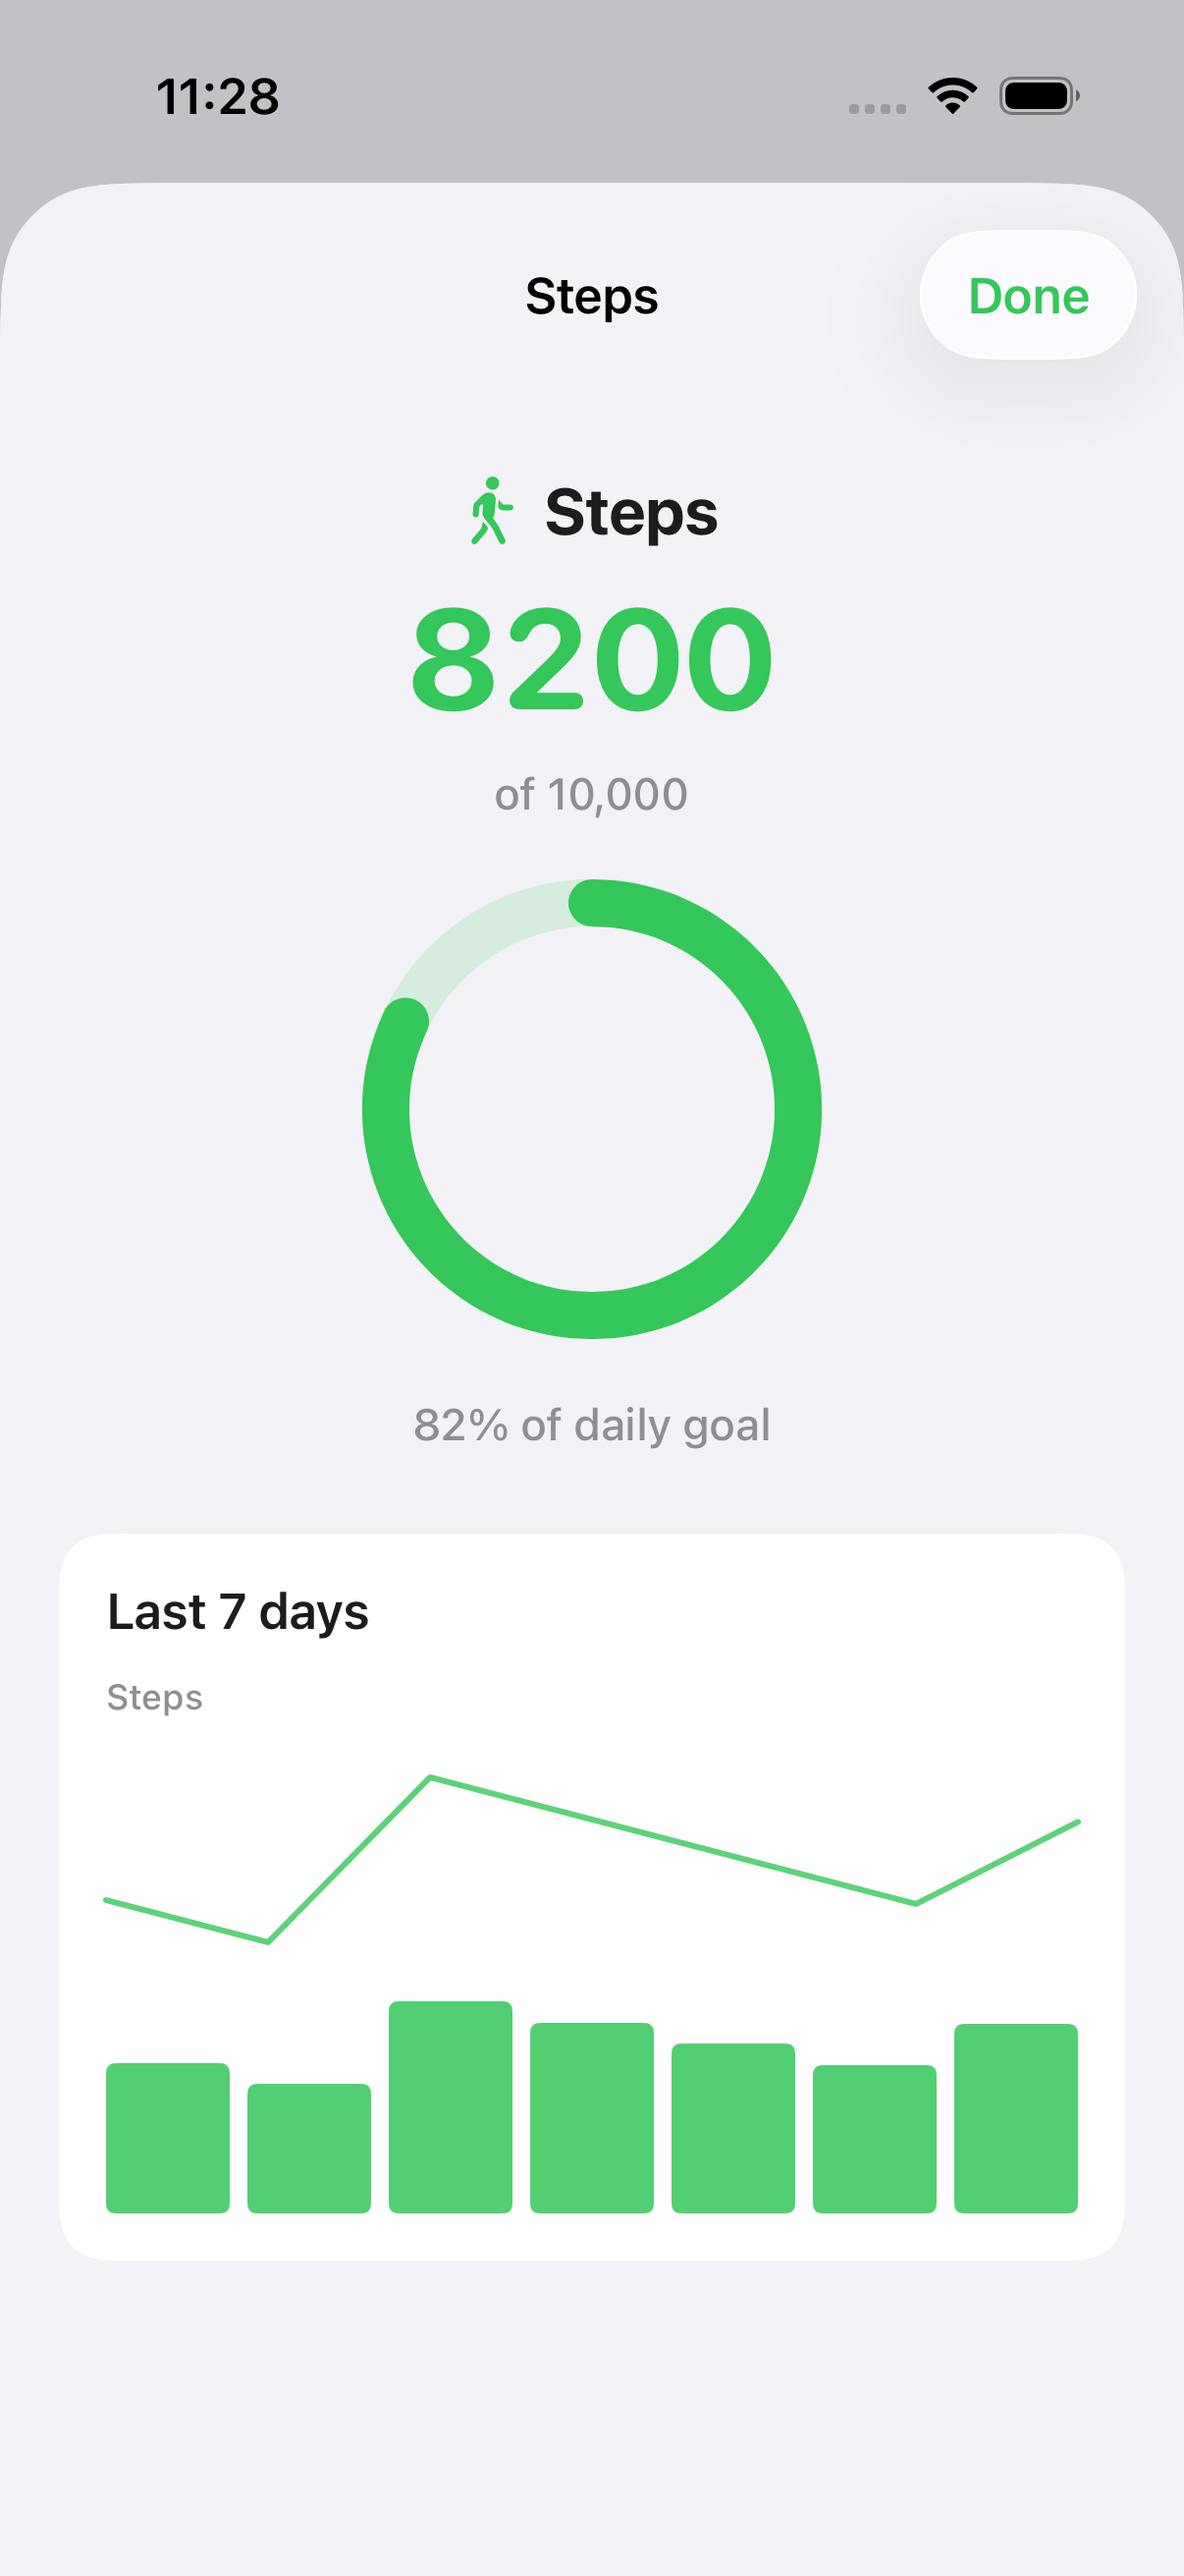
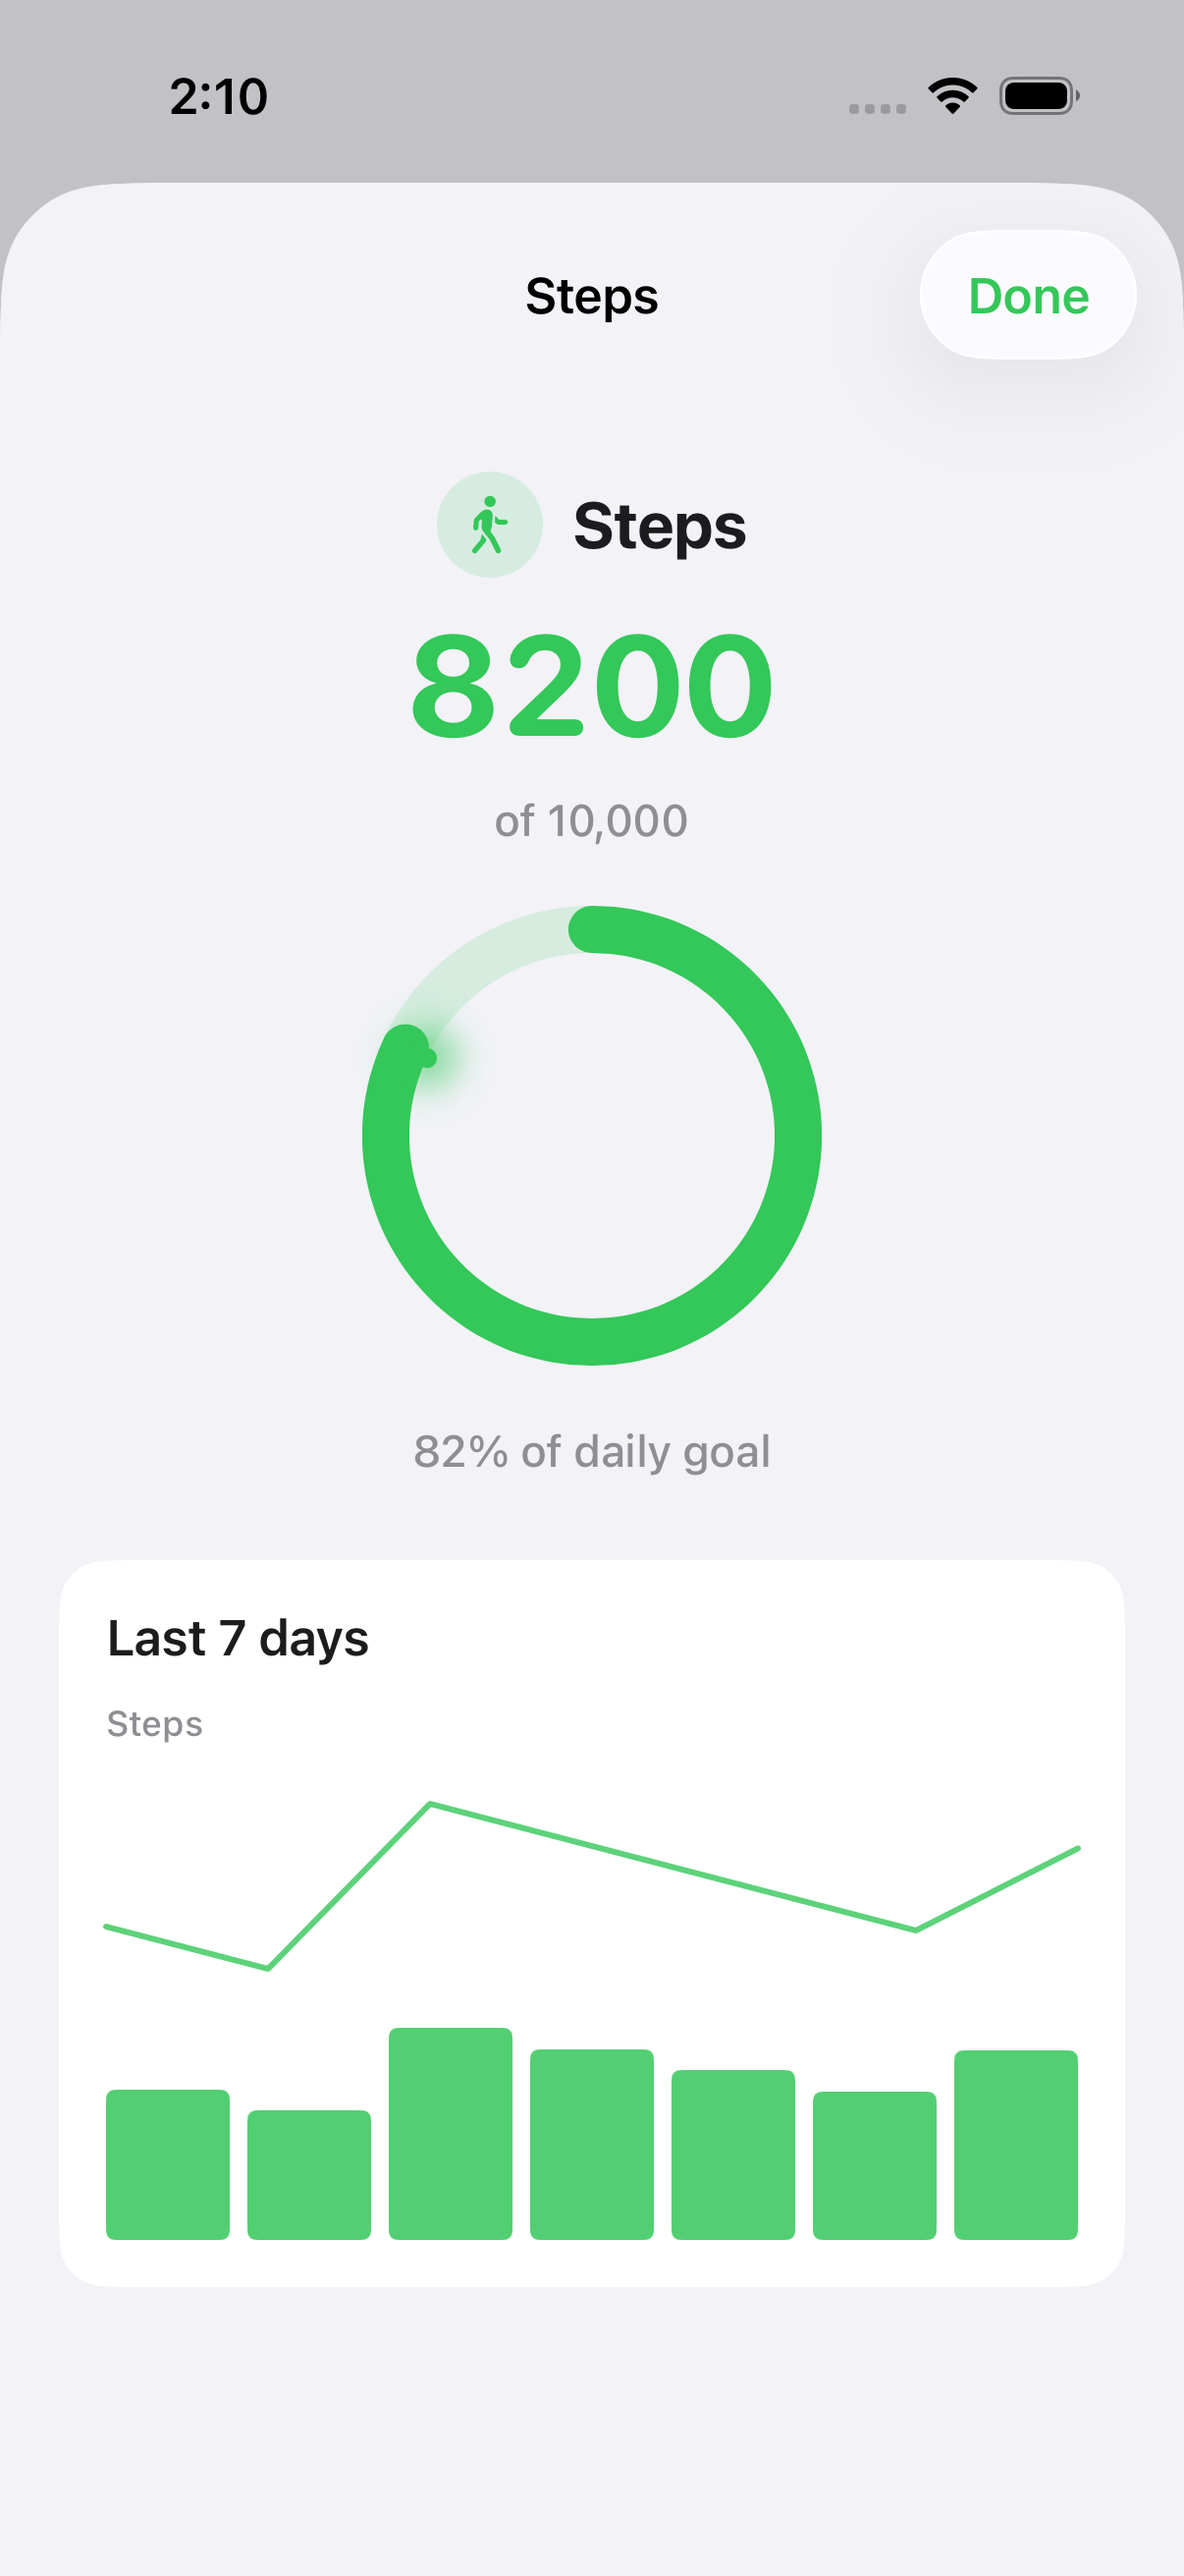
feat(today): Apple Body section chrome (Honest #63) (#81)
Rename Body & activity → Body, add circular tint wells on metric tiles
and detail hero, refresh audit PNGs from Mac-mini UITests.

diff --git a/ReadinessTracker/Views/DashboardView.swift b/ReadinessTracker/Views/DashboardView.swift
@@ -997,7 +997,7 @@ struct DashboardView: View {
         let kinds: [BodyMetricKind] = [.steps, .activity, .calories, .spo2, .water, .caffeine, .protein]
         return NativeCard {
             VStack(alignment: .leading, spacing: 14) {
-                SectionHeader(title: "Body & activity")
+                SectionHeader(title: "Body")
 
                 LazyVGrid(columns: [GridItem(.flexible()), GridItem(.flexible())], spacing: 12) {
                     ForEach(kinds) { kind in
@@ -1008,12 +1008,15 @@ struct DashboardView: View {
                     if UserSettings.load().trackMenstrualCycle {
                         // Cycle remains informational (no dedicated metric kind / detail yet).
                         VStack(alignment: .leading, spacing: 4) {
-                            HStack(spacing: 6) {
+                            HStack(spacing: 8) {
                                 Image(systemName: "circle.lefthalf.filled")
-                                    .font(.system(size: 12, weight: .semibold))
+                                    .font(.system(size: 11, weight: .semibold))
                                     .foregroundStyle(RTColor.secondaryText)
+                                    .frame(width: 26, height: 26)
+                                    .background(RTColor.secondaryText.opacity(0.12))
+                                    .clipShape(Circle())
                                 Text("Cycle")
-                                    .font(.caption)
+                                    .font(.caption.weight(.semibold))
                                     .foregroundStyle(RTColor.secondaryText)
                             }
                             Text(data.menstrualFlow ? "Flow reported" : "No flow")
@@ -1032,7 +1035,7 @@ struct DashboardView: View {
             }
         }
         .accessibilityElement(children: .contain)
-        .accessibilityLabel("Body and activity")
+        .accessibilityLabel("Body")
         .accessibilityIdentifier(SurfaceID.bodyActivitySection)
         .sheet(item: $selectedBodyMetric) { kind in
             BodyMetricDetailView(kind: kind, data: data, history: history)

diff --git a/ReadinessTracker/Design/Components.swift b/ReadinessTracker/Design/Components.swift
@@ -471,10 +471,13 @@ struct BodyMetricTile: View {
 
     var body: some View {
         VStack(alignment: .leading, spacing: 8) {
-            HStack(spacing: 6) {
+            HStack(spacing: 8) {
                 Image(systemName: kind.icon)
-                    .font(.system(size: 12, weight: .semibold))
+                    .font(.system(size: 11, weight: .semibold))
                     .foregroundStyle(kind.color)
+                    .frame(width: 26, height: 26)
+                    .background(kind.color.opacity(0.14))
+                    .clipShape(Circle())
                 Text(kind.label)
                     .font(.caption.weight(.semibold))
                     .foregroundStyle(RTColor.secondaryText)
@@ -546,10 +549,13 @@ struct BodyMetricDetailView: View {
             ScrollView {
                 VStack(spacing: 28) {
                     VStack(spacing: 8) {
-                        HStack(spacing: 8) {
+                        HStack(spacing: 10) {
                             Image(systemName: kind.icon)
-                                .font(.title3.weight(.semibold))
+                                .font(.body.weight(.semibold))
                                 .foregroundStyle(kind.color)
+                                .frame(width: 36, height: 36)
+                                .background(kind.color.opacity(0.14))
+                                .clipShape(Circle())
                             Text(kind.label)
                                 .font(.title2.weight(.bold))
                                 .foregroundStyle(RTColor.primaryText)

diff --git a/ReadinessTrackerUITests/SurfacesUITests.swift b/ReadinessTrackerUITests/SurfacesUITests.swift
@@ -72,8 +72,9 @@ final class SurfacesUITests: XCTestCase {
     }
 
     func testBodyActivityVisibleAfterScroll() throws {
+        // Honest #63: Body section + circular tint wells on metric tiles.
         // Elevated Body tiles: progress-to-goal + sparkline chrome; Activity minutes label.
-        revealText("Body & activity")
+        revealText("Body")
         XCTAssertTrue(app.staticTexts["Steps"].exists)
         XCTAssertTrue(app.staticTexts["Activity"].exists)
         let stepsTile = app.descendants(matching: .any)["body.tile.steps"].firstMatch
@@ -84,7 +85,7 @@ final class SurfacesUITests: XCTestCase {
 
     func testBodyDetailSurface() throws {
         // Today Body Steps tile → Fitness / Google Health–style metric detail sheet.
-        revealText("Body & activity")
+        revealText("Body")
         let stepsTile = app.descendants(matching: .any)["body.tile.steps"].firstMatch
         XCTAssertTrue(stepsTile.waitForExistence(timeout: 8), "body.tile.steps")
         // Nested card tiles can report exists but not hittable after scroll; coordinate tap is reliable.

diff --git a/.cursor/skills/verify-readiness-tracker/features/body-activity.md b/.cursor/skills/verify-readiness-tracker/features/body-activity.md
@@ -1,0 +1,15 @@
+# Today → Body
+
+## Sub-features
+- Body section grid of Body metric tiles
+- Circular tinted SF Symbol wells + progress rings + sparklines
+- Steps (etc.) sheet with hero ring + 7-day chart
+
+## How to get to it
+Today tab → scroll to Body
+
+## Driving it with the harness
+`SurfacesUITests.testBodyActivityVisibleAfterScroll` / `testBodyDetailSurface` → `.audit/verify-body-activity.png` / `verify-body-detail.png`
+
+## Gotchas
+Do not invent Move/Exercise/Stand Fitness+ chrome; keep existing metric set.
